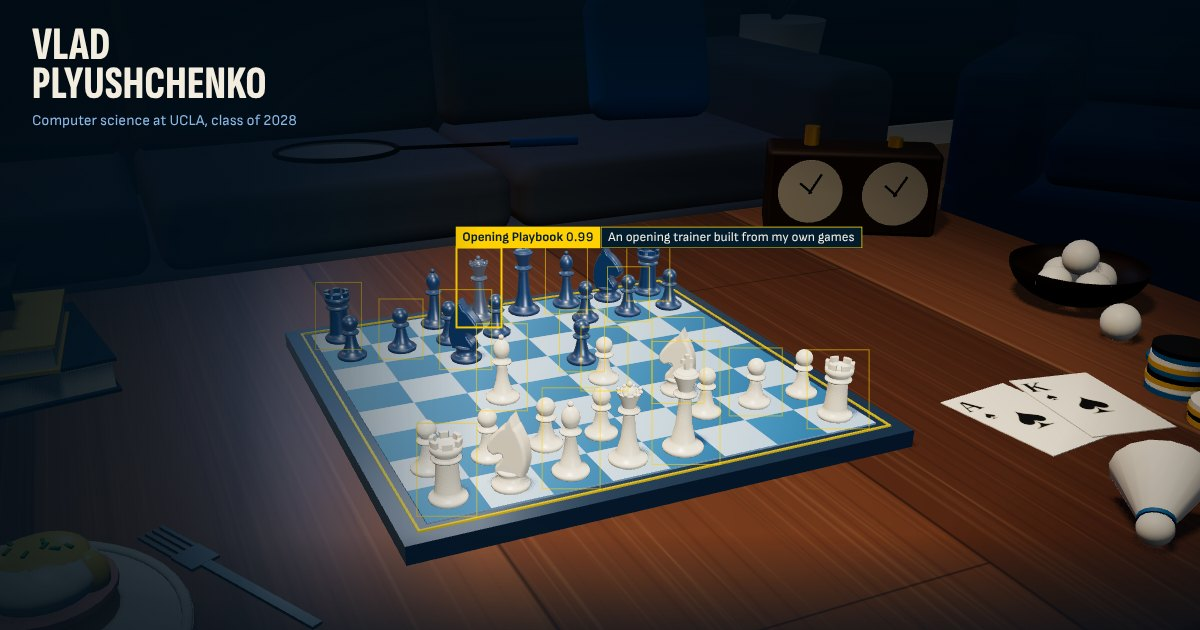
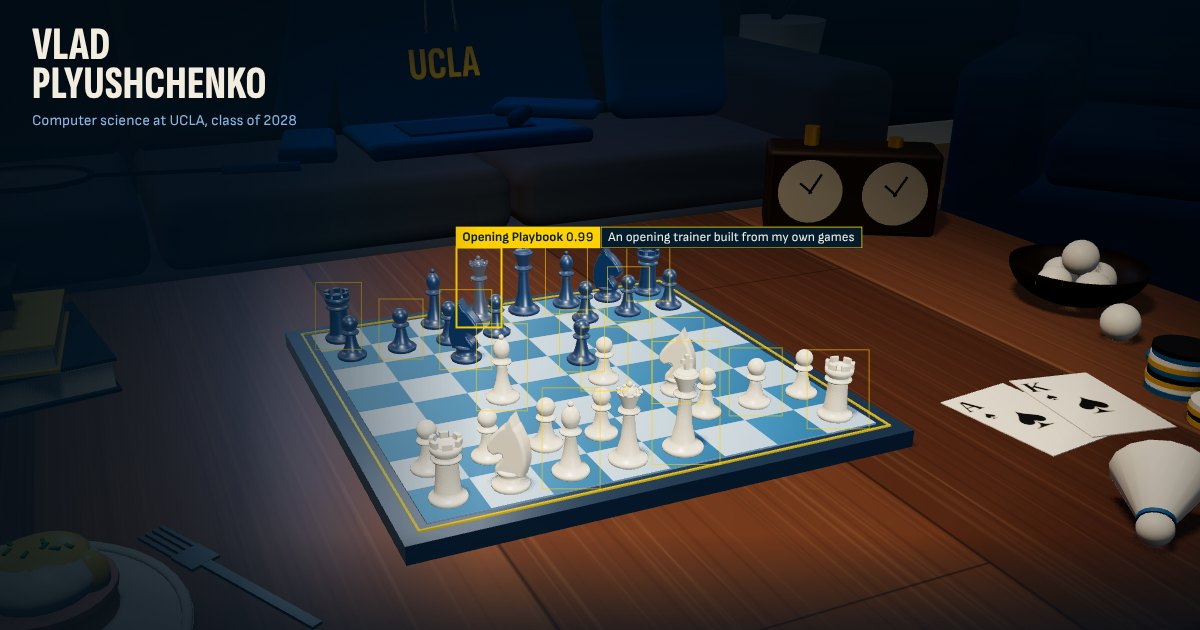
Remove J.P. Morgan; add a UCLA hoodie on the sofa
- J.P. Morgan section removed from the board, the index, the plain page
  and the About text; its rook is now a plain piece
- Hoodie in UCLA blue and gold tossed on the sofa, visible from the home
  view; racket and a pillow shifted to make room
- The tracked-pieces count is now taken from the content

Claude-Session: https://claude.ai/code/session_012rQMmrgyv97pPjYr766Eoc

diff --git a/js/room.js b/js/room.js
@@ -698,6 +698,78 @@ function framedArt(variant, w, h) {
   return g;
 }
 
+// A hoodie tossed on the sofa: the bottom half lies on the seat, the top half
+// leans back against a cushion so the lettering faces the room. Plain letters
+// in the site's own font, not the university's logo.
+// Origin: on the seat, at the foot of the back cushion, facing +z.
+function hoodie() {
+  const g = new THREE.Group();
+  const cloth = mat(0x2774ae, 1);
+  const rib = mat(0x1f5f92, 1);
+  const soft = { round: 0.24 };
+
+  // on the seat: lower body, hem, pocket
+  g.add(box(8.6, 0.5, 4.7, cloth, 0, 0.27, 2.45, soft));
+  g.add(box(8.7, 0.56, 0.7, rib, 0, 0.3, 4.75, soft));
+  g.add(box(5.0, 0.1, 2.3, rib, 0, 0.56, 2.5));
+
+  // leaning on the cushion: chest, shoulders, hood, lettering
+  const up = new THREE.Group();
+  up.rotation.x = -0.16; // the same lean as the sofa's back cushions
+  up.add(box(8.6, 6.3, 0.5, cloth, 0, 3.25, 0.34, soft));
+  const hood = new THREE.Mesh(new THREE.SphereGeometry(1, 24, 16), cloth);
+  hood.scale.set(2.7, 2.1, 0.75);
+  hood.position.set(0, 6.9, 0.3);
+  up.add(hood);
+  const neck = new THREE.Mesh(new THREE.CircleGeometry(1, 24), mat(0x174a73, 1));
+  neck.scale.set(1.5, 0.85, 1);
+  neck.position.set(0, 6.25, 0.61);
+  up.add(neck);
+  for (const sx of [-1, 1]) {
+    const cord = new THREE.Mesh(new THREE.CylinderGeometry(0.05, 0.05, 2.0, 6), mat(0xf4f1ea, 0.9));
+    cord.position.set(sx * 0.55, 4.9, 0.63);
+    cord.rotation.z = sx * 0.06;
+    const tip = new THREE.Mesh(new THREE.CylinderGeometry(0.07, 0.07, 0.3, 6), mat(0xd7a91a, 0.5));
+    tip.position.set(sx * 0.61, 3.85, 0.63);
+    up.add(cord, tip);
+  }
+  const letters = canvasTexture(768, 256, (c, w, h) => {
+    c.clearRect(0, 0, w, h);
+    c.fillStyle = '#ffd100';
+    c.font = '800 250px "Sofia Sans Extra Condensed", "Arial Narrow", Impact, sans-serif';
+    c.textAlign = 'center';
+    c.textBaseline = 'middle';
+    c.fillText('UCLA', w / 2, h / 2 + 12);
+  });
+  const print = new THREE.Mesh(
+    new THREE.PlaneGeometry(5.4, 1.8),
+    new THREE.MeshStandardMaterial({ map: letters, transparent: true, alphaTest: 0.35, roughness: 1, emissive: 0xffd100, emissiveMap: letters, emissiveIntensity: 0.3 }),
+  );
+  print.position.set(0, 2.5, 0.6);
+  up.add(print);
+
+  // sleeves: each hangs from a shoulder down to the seat
+  const upperArm = (sx, angle) => {
+    const arm = box(2.1, 6.0, 0.5, cloth, sx * 4.3 + Math.sin(angle) * 2.9, 6.0 - Math.cos(angle) * 2.9, 0.33, soft);
+    arm.rotation.z = angle;
+    return arm;
+  };
+  up.add(upperArm(-1, -0.28), upperArm(1, 0.22));
+  g.add(up);
+
+  // forearms on the seat: the left one out to the side, the right one folded across the front
+  const left = box(2.0, 0.5, 3.9, cloth, -6.0, 0.27, 2.2, soft);
+  left.rotation.y = -0.22;
+  const leftCuff = box(2.06, 0.56, 0.6, rib, -6.42, 0.3, 4.1, soft);
+  leftCuff.rotation.y = -0.22;
+  const right = box(2.0, 0.5, 4.2, cloth, 3.6, 0.93, 2.3, soft);
+  right.rotation.y = 0.95;
+  const rightCuff = box(2.06, 0.56, 0.6, rib, 1.9, 0.96, 3.5, soft);
+  rightCuff.rotation.y = 0.95;
+  g.add(left, leftCuff, right, rightCuff);
+  return g;
+}
+
 // ---------- the room ----------
 
 export function buildRoom() {
@@ -767,8 +839,8 @@ export function buildRoom() {
   couch.position.set(0, 0, -25);
   room.add(couch);
   const SEAT = FLOOR + 8.2; // top of the sofa's seat cushions
-  room.add(pillow(0xd7a91a, -14.4, SEAT, -24.9, 0.22));
-  room.add(pillow(0x2774ae, 14.6, SEAT, -24.9, -0.2));
+  room.add(pillow(0xd7a91a, -15.2, SEAT, -24.9, 0.22));
+  room.add(pillow(0x2774ae, 15.4, SEAT, -24.9, -0.2));
   room.add(blob(54, 24, 0, -25));
 
   // armchair to the right of the sofa, turned towards the table
@@ -805,8 +877,11 @@ export function buildRoom() {
   const skiSet = skis();
   skiSet.position.set(left + 6, FLOOR, back + 5.2);
   room.add(skiSet);
+  const top = hoodie();
+  top.position.set(6.0, SEAT, -26.0);
+  room.add(top);
   const racket = badmintonRacket();
-  racket.position.set(9.6, SEAT, -20.9);
+  racket.position.set(-0.9, SEAT, -20.9);
   racket.rotation.y = 1.36; // lengthways along the seat, well clear of the back cushions
   room.add(racket);
 

diff --git a/js/content.js b/js/content.js
@@ -1,7 +1,7 @@
 // Everything the site says lives here. Edit this file to change the content;
 // the board, the side panel and the plain page all read from it.
 //
-// Each entry sits on one chess piece. Half the pieces carry a section, spread
+// Each entry sits on one chess piece. About half the pieces carry a section, spread
 // over both colours; the rest are just pieces.
 //   side / from : which piece, named by colour and the square it starts on
 //                 (e.g. white g1 is the king's knight)
@@ -29,7 +29,7 @@ export const pieces = [
     photo: { src: 'img/vlad.jpg', alt: 'Vlad Plyushchenko', tag: 'vlad', conf: 0.97 },
     body: [
       'I study computer science at UCLA with an economics concentration, and I graduate in June 2028. Before Los Angeles I was at Harrow School in London.',
-      'Most of my work so far has been product management close to the engineering: pointing analysis for a 450,000 km laser downlink at Qosmosys, growth at a VC-backed soccer betting app, and data systems at J.P. Morgan.',
+      'Most of my work so far has been product management close to the engineering: pointing analysis for a 450,000 km laser downlink at Qosmosys, and growth at a VC-backed soccer betting app.',
       'I play blitz chess, and the position on this board is the Italian Game, my opening with White. Away from the board it is poker, Formula 1, skiing, darts and eggs Benedict. I speak English and Russian.',
     ],
   },
@@ -85,19 +85,6 @@ export const pieces = [
       'Led a 6-person, cross-functional product and engineering pod to 2x user growth, lifting referral 0.55 to 1.0.',
       'Planned go-to-market for a $10K freeroll tournament on a World Cup timeline, cutting acquisition cost by 35%.',
       'Ran customer interviews across 3 research pods to find unmet needs, projecting a 40% Day-30 retention lift.',
-    ],
-  },
-  {
-    id: 'jpmorgan',
-    side: 'white', from: 'a1',
-    group: 'Experience', tag: 'J.P. Morgan', conf: 0.96,
-    title: 'J.P. Morgan',
-    meta: 'Product Manager, Data Systems (contract)',
-    when: 'Sep to Dec 2025',
-    where: 'Los Angeles, California',
-    bullets: [
-      'Scoped and shipped Python and Tableau dashboards surfacing 500+ live pipelines across 10 partner colleges.',
-      'Consolidated structured input from 30+ recruiters into SQL models, cutting leadership reporting time by 40%.',
     ],
   },
   {

diff --git a/index.html b/index.html
@@ -42,7 +42,7 @@
   <aside class="panel" id="panel" aria-labelledby="panel-title" tabindex="-1" inert></aside>
 
   <p class="hint" id="hint">Pieces in a gold box open a part of my work. Click one, or drag to look around the room.</p>
-  <p class="status" aria-hidden="true"><span>Italian Game</span><span>16 pieces tracked</span><span id="fps"></span></p>
+  <p class="status" aria-hidden="true"><span>Italian Game</span><span id="tracked"></span><span id="fps"></span></p>
 
   <main id="plain" hidden>
     <p class="no-board-note">The 3D board needs WebGL, which is turned off in this browser. Everything on it is on this page.</p>

diff --git a/js/main.js b/js/main.js
@@ -234,6 +234,7 @@ buildIndex();
 buildPlain();
 $('#name').textContent = person.name;
 $('#year').textContent = new Date().getFullYear();
+$('#tracked').textContent = `${pieces.length} pieces tracked`;
 
 try {
   // The pennant on the wall is drawn with the display font, so wait for it (briefly).

diff --git a/README.md b/README.md
@@ -35,10 +35,10 @@ There is nothing to build. GitHub Pages serves the `main` branch as it is, and `
 
 ## Easter eggs
 
-The room is dark on purpose, with one lamp on the board. Drag around to find: a UCLA pennant, eggs Benedict, an ace-king of spades with poker chips, a dartboard, skis in the corner, a badminton racket and shuttlecock, a model racing car, a bowl of golf balls, a chess clock, and the moon in the window. They are all built in `js/room.js`.
+The room is dark on purpose, with one lamp on the board. Drag around to find: a UCLA pennant and hoodie, eggs Benedict, an ace-king of spades with poker chips, a dartboard, skis in the corner, a badminton racket and shuttlecock, a model racing car, a bowl of golf balls, a chess clock, and the moon in the window. They are all built in `js/room.js`.
 
 ## Notes
 
 - `#plain` in the address bar shows everything as an ordinary page. Browsers without WebGL get that page automatically.
-- Colours are UCLA blue (`#2774AE`) and gold (`#FFD100`). The pennant spells the name in the site's own font; the site does not use UCLA's logos.
+- Colours are UCLA blue (`#2774AE`) and gold (`#FFD100`). The pennant and hoodie spell the name in the site's own font; the site does not use UCLA's logos.
 - Fonts are Sofia Sans and Sofia Sans Extra Condensed (SIL Open Font License), served from `fonts/`.
